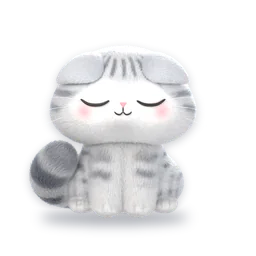
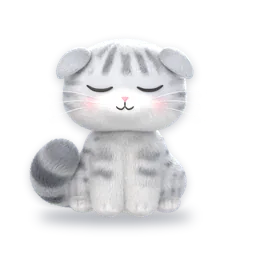
fix(помощник): голова котика круглая, как на наброске
Владелец: голова читалась прямоугольной. Причины, найденные сверкой с листом
при одинаковой ширине головы:
- «виски» заполняли верхние углы, уши лежали широким козырьком вровень с макушкой;
- серая «шапка» с горизонтальным краем над белыми вертикальными боками;
- голова сидела прямо на туловище: фигура 1.15–1.22 ширины головы против 1.27–1.36.

Теперь: череп без висков, бока серые дугой до уровня рта, белая только мордочка;
голова на 8% меньше и поднята — под подбородком видна грудка; ушки — клапаны
в верхних углах в тон головы, на одном месте при любом наклоне головы; глаза
мельче с толстой обводкой, нос и рот ниже. Лапка в «сонной» снова у рта.

diff --git a/src/components/assistant/cat/catLayout.js b/src/components/assistant/cat/catLayout.js
@@ -3,18 +3,18 @@
  * head — центр головы, top — макушка, forehead — лоб, left/right — бока головы,
  * mouth — рот, box — рамка силуэта [слева, сверху, справа, снизу]. */
 export const CAT_LAYOUT = {
-    normal: { box: [10.9, 17.6, 80.9, 85.5], forehead: [55.8, 28.1], head: [48.1, 37.3], left: [18.5, 28.7], mouth: [48.1, 43.0], right: [77.6, 28.7], top: [48.1, 18.3] },
-    'look-left': { box: [10.9, 17.6, 77.7, 85.5], forehead: [52.6, 28.2], head: [48.1, 37.3], left: [19.9, 28.0], mouth: [43.7, 42.9], right: [77.3, 29.4], top: [48.1, 18.3] },
-    'look-right': { box: [10.9, 17.6, 82.4, 85.5], forehead: [58.5, 27.9], head: [48.1, 37.3], left: [18.9, 29.4], mouth: [52.4, 42.9], right: [76.3, 28.0], top: [48.1, 18.3] },
-    blink: { box: [10.9, 17.6, 80.9, 85.5], forehead: [55.8, 28.1], head: [48.1, 37.3], left: [18.5, 28.7], mouth: [48.1, 43.0], right: [77.6, 28.7], top: [48.1, 18.3] },
-    happy: { box: [10.9, 16.8, 80.9, 85.5], forehead: [56.8, 26.2], head: [48.1, 36.7], left: [19.4, 25.5], mouth: [48.0, 39.6], right: [78.1, 30.7], top: [49.7, 17.8] },
-    excited: { box: [10.5, 18.8, 80.5, 84.8], forehead: [55.7, 27.2], head: [48.1, 38.1], left: [18.8, 29.5], mouth: [48.1, 41.3], right: [77.3, 29.5], top: [48.1, 19.2] },
-    sad: { box: [10.9, 19.9, 80.9, 85.5], forehead: [55.9, 35.0], head: [48.1, 39.4], left: [18.2, 31.5], mouth: [48.1, 50.3], right: [77.9, 31.5], top: [48.1, 21.8] },
-    angry: { box: [17.2, 17.2, 95.3, 85.2], forehead: [72.6, 36.4], head: [60.8, 43.5], left: [32.3, 36.0], mouth: [66.1, 52.0], right: [89.2, 34.2], top: [61.9, 24.8] },
-    surprised: { box: [10.9, 17.6, 80.9, 85.5], forehead: [55.8, 26.7], head: [48.1, 37.3], left: [18.5, 28.6], mouth: [48.1, 41.1], right: [77.6, 28.6], top: [48.1, 18.2] },
-    scared: { box: [9.8, 38.3, 80.9, 85.9], forehead: [55.8, 50.9], head: [48.1, 57.9], left: [18.3, 49.5], mouth: [48.1, 66.3], right: [77.8, 49.5], top: [48.1, 39.3] },
-    sleepy: { box: [10.9, 17.6, 80.9, 85.5], forehead: [57.1, 28.2], head: [48.1, 37.3], left: [19.8, 25.1], mouth: [47.8, 41.7], right: [78.4, 32.3], top: [50.4, 18.4] },
-    confused: { box: [10.9, 16.8, 82.8, 85.5], forehead: [54.3, 25.3], head: [48.1, 37.3], left: [17.3, 35.3], mouth: [50.3, 41.1], right: [74.8, 22.5], top: [43.9, 18.7] },
-    mischievous: { box: [16.8, 17.2, 94.9, 82.4], forehead: [74.1, 35.6], head: [60.8, 43.5], left: [34.1, 31.8], mouth: [66.9, 49.9], right: [88.7, 37.8], top: [63.7, 24.5] },
-    asleep: { box: [4.7, 43.0, 93.8, 89.5], forehead: [72.5, 58.4], head: [60.1, 62.8], left: [33.0, 51.8], mouth: [63.7, 72.8], right: [89.5, 57.7], top: [63.8, 45.0] },
+    normal: { box: [11.3, 14.8, 80.9, 85.2], forehead: [56.7, 24.0], head: [48.8, 33.4], left: [22.7, 24.6], mouth: [48.8, 39.1], right: [74.9, 24.6], top: [48.8, 14.1] },
+    'look-left': { box: [11.3, 14.8, 77.7, 85.2], forehead: [53.4, 24.1], head: [48.8, 33.4], left: [23.8, 24.1], mouth: [44.4, 39.0], right: [74.5, 25.2], top: [48.8, 14.1] },
+    'look-right': { box: [11.3, 14.8, 82.4, 85.2], forehead: [59.4, 23.8], head: [48.8, 33.4], left: [23.1, 25.2], mouth: [53.2, 39.0], right: [73.7, 24.1], top: [48.8, 14.1] },
+    blink: { box: [11.3, 14.8, 80.9, 85.2], forehead: [56.7, 24.0], head: [48.8, 33.4], left: [22.7, 24.6], mouth: [48.8, 39.1], right: [74.9, 24.6], top: [48.8, 14.1] },
+    happy: { box: [11.3, 14.1, 80.9, 85.2], forehead: [57.7, 22.1], head: [48.8, 32.8], left: [23.6, 21.8], mouth: [48.7, 35.6], right: [75.5, 26.3], top: [50.5, 13.6] },
+    excited: { box: [10.5, 16.0, 80.5, 84.4], forehead: [56.6, 23.1], head: [48.8, 34.2], left: [23.0, 25.5], mouth: [48.8, 37.4], right: [74.6, 25.5], top: [48.8, 15.1] },
+    sad: { box: [11.3, 16.8, 80.9, 85.2], forehead: [56.7, 30.9], head: [48.8, 35.6], left: [22.4, 27.5], mouth: [48.8, 46.5], right: [75.1, 27.5], top: [48.8, 17.6] },
+    angry: { box: [17.2, 16.0, 95.3, 84.8], forehead: [73.7, 32.4], head: [61.8, 39.7], left: [36.7, 31.9], mouth: [67.1, 48.2], right: [86.9, 30.4], top: [62.8, 20.7] },
+    surprised: { box: [11.3, 14.8, 80.9, 85.2], forehead: [56.6, 22.6], head: [48.8, 33.4], left: [22.7, 24.6], mouth: [48.8, 37.2], right: [74.9, 24.6], top: [48.8, 14.1] },
+    scared: { box: [10.2, 40.2, 80.9, 85.5], forehead: [56.7, 51.7], head: [48.8, 58.8], left: [22.6, 50.3], mouth: [48.8, 67.3], right: [75.0, 50.3], top: [48.8, 39.9] },
+    sleepy: { box: [10.9, 14.8, 80.5, 85.2], forehead: [58.0, 24.1], head: [48.8, 33.4], left: [23.9, 21.5], mouth: [48.5, 37.8], right: [75.7, 27.9], top: [51.1, 14.2] },
+    confused: { box: [11.3, 14.5, 82.8, 85.2], forehead: [55.1, 21.2], head: [48.8, 33.4], left: [21.4, 30.5], mouth: [51.1, 37.1], right: [72.1, 19.2], top: [44.6, 14.5] },
+    mischievous: { box: [17.2, 16.0, 94.9, 82.0], forehead: [75.2, 31.7], head: [61.8, 39.7], left: [38.4, 28.2], mouth: [68.0, 46.1], right: [86.7, 33.6], top: [64.7, 20.4] },
+    asleep: { box: [4.7, 45.3, 93.4, 89.1], forehead: [73.6, 59.3], head: [61.0, 63.7], left: [37.4, 53.0], mouth: [64.6, 74.0], right: [87.2, 58.1], top: [64.8, 45.7] },
 };

diff --git a/scripts/assistant_cat/cat_models.py b/scripts/assistant_cat/cat_models.py
@@ -527,29 +527,38 @@ def local_coords(part, P):
 
 
 def pattern_head(part, P, Nn, t):
-    """Голова: светло-серая «шапочка» с полосами-«М» на лбу, пара полос по бокам, белая мордочка, румянец."""
+    """Голова: серебристая с полосами табби, белые только мордочка, щёчки под глазами и подбородок.
+
+    Как на наброске: серый охватывает макушку и бока дугой до уровня рта, белая
+    «маска» снизу посередине — так голова читается шаром, а не шапкой над белым
+    прямоугольником. Полосы: «М» на лбу до бровей, по две на висках от уголков глаз."""
     L = local_coords(part, P)
     radii = np.array(part.params['radii'])
     d = normalize_rows(L / radii)
     theta = np.arctan2(d[:, 0], -d[:, 1])           # 0 — середина мордочки, ±π/2 — бока
     z = d[:, 2]
     n = len(P)
-    wob = fbm(P, 3.2, seed=11) * 0.06
-    edge = 0.34 - 0.8 * smoothstep(0.3, 1.3, np.abs(theta)) - 0.2 * smoothstep(1.6, 2.8, np.abs(theta)) + wob
-    cap = smoothstep(edge - 0.05, edge + 0.12, z)
-    col = mix_rows(np.tile(WHITE, (n, 1)), np.tile(GREY, (n, 1)), cap * 0.9)
+    hu = L[:, 0] / radii[0]                         # доли полуширины и полувысоты головы
+    hv = L[:, 2] / radii[2]
+    wob = fbm(P, 3.2, seed=11) * 0.05
+    # Белая маска: верх — дуга от переносицы вниз к бокам, у висков белого нет.
+    edge = 0.02 - 0.9 * hu * hu + wob
+    white = smoothstep(edge + 0.1, edge - 0.14, hv) * smoothstep(-0.1, 0.35, -d[:, 1])
+    white = np.maximum(white, smoothstep(-0.58, -0.86, hv))          # подбородок и низ — как грудка
+    cap = 1.0 - white
+    col = mix_rows(np.tile(WHITE, (n, 1)), np.tile(GREY, (n, 1)), cap * 0.92)
     warp = fbm(P, 3.0, seed=3) * 0.28
-    # «М» на лбу: пять полос вдоль меридианов, к бровям тоньше и обрываются.
-    taper = smoothstep(edge + 0.02, edge + 0.4, z)
-    # Полосы на лбу — тоньше, чаще и волнистее, чем бруски «штрихкода» (как на наброске).
-    fore = bands(theta / 0.2 + 0.5 + warp * 1.5, width=0.3 + 0.2 * taper, soft=0.16)
-    fore *= smoothstep(edge + 0.03, edge + 0.16, z) * smoothstep(0.78, 0.5, np.abs(theta))
-    fore *= smoothstep(-0.35, 0.1, fbm(P, 5.5, seed=17) + 0.25 - 0.3 * smoothstep(0.75, 0.95, z))
-    # По бокам головы — две поперечные полосы, рваные.
-    side = bands(z / 0.24 + 0.2 + warp * 1.2, width=0.46, soft=0.16)
-    side *= smoothstep(0.62, 0.95, np.abs(theta)) * smoothstep(2.5, 1.9, np.abs(theta)) * cap
+    # «М» на лбу: полосы вдоль меридианов от макушки до бровей, к бровям тоньше.
+    taper = smoothstep(0.3, 0.75, hv)
+    fore = bands(theta / 0.34 + 0.5 + warp * 1.4, width=0.4 + 0.2 * taper, soft=0.22)
+    fore *= smoothstep(0.26, 0.42, hv) * smoothstep(0.85, 0.55, np.abs(theta))
+    fore *= smoothstep(-0.35, 0.1, fbm(P, 5.5, seed=17) + 0.25 - 0.3 * smoothstep(0.8, 0.97, z))
+    # На висках — по две поперечные полосы от уголков глаз назад, рваные.
+    side = bands(hv / 0.26 + 0.1 + warp * 1.2, width=0.44, soft=0.16)
+    side *= smoothstep(0.7, 1.0, np.abs(theta)) * smoothstep(2.5, 1.9, np.abs(theta))
+    side *= smoothstep(-0.62, -0.4, hv) * smoothstep(0.62, 0.4, hv)
     side *= smoothstep(-0.3, 0.2, fbm(P, 4.5, seed=13) + 0.2)
-    back = bands(theta / 0.32 + warp, width=0.3, soft=0.18) * smoothstep(2.1, 2.6, np.abs(theta)) * cap
+    back = bands(theta / 0.32 + warp, width=0.3, soft=0.18) * smoothstep(1.9, 2.5, np.abs(theta))
     stripes = np.clip(np.maximum(np.maximum(fore, side), back), 0, 1) * (0.8 + 0.2 * fbm(P, 7.0, seed=5))
     col = mix_rows(col, np.tile(STRIPE_HEAD, (n, 1)), np.clip(stripes * 1.15, 0, 1) * cap)
     # Румянец на щёчках под глазами.
@@ -966,7 +975,7 @@ def build_eye(face, prefix, spec, mats):
     radii = []
     for (x, y) in outline:
         radii.append(0.14 + 1.9 * smooth01((y + 0.05) / 0.75))   # веко сверху, снизу — волосок
-    tube(f'{prefix}Line', ring_pts, spec.get('line', 0.012), mats['line'], radii, cyclic=True)
+    tube(f'{prefix}Line', ring_pts, spec.get('line', 0.016), mats['line'], radii, cyclic=True)
     # Блики — на роговице над радужкой: едут вместе со взглядом.
     for k, (hx, hy, hr) in enumerate(spec.get('sparks', [(0.2, 0.22, 0.17), (-0.22, -0.24, 0.075)])):
         disc(face, f'{prefix}Spark{k}', cu, cv, rx, ry, inner, hx + look[0], hy + look[1], hr, bulge,
@@ -1088,19 +1097,19 @@ def rounded_triangle(cx, cy, w, h, r=0.35, n=12):
 # ---------------------------------------------------------------- уши
 
 def build_ear(name, head, side, droop, mats, face):
-    """Вислое ушко: гладкий треугольный клапан на верхнем углу головы, кончик вперёд-вниз-наружу.
+    """Вислое ушко: пухлый скруглённый клапан на верхнем углу головы, кончик наружу-вниз.
 
-    Место — лучом из центра головы до её настоящей поверхности (виски и щёчки
-    меняют форму, эллипсоид врал бы)."""
+    Место — лучом из центра головы до её настоящей поверхности; ось клапана задана
+    как на рисунке спереди, а не по касательной к голове (иначе ухо ложилось «полкой»)."""
     bm = bmesh.new()
     bmesh.ops.create_uvsphere(bm, u_segments=40, v_segments=20, radius=1.0)
-    hp = head.params
     ear = HEAD_SHAPE['ear']
-    w_half, h_half, thick = hp.get('ear_size', ear['size'])
-    flare = math.radians(ear.get('flare', -16))       # клапан откинут на сгибе: низ отходит от головы
+    w_half, h_half, thick = ear['size']
+    flare = math.radians(ear['flare'])               # клапан откинут на сгибе: низ отходит от головы
+    tip = ear['tip']                                 # ширина кончика в долях сгиба: 0.6 — скруглённый
     for v in bm.verts:
         x, y, z = v.co
-        w = 0.32 + 0.68 * (z + 1) / 2                    # широкий сгиб сверху, острый кончик внизу
+        w = tip + (1.0 - tip) * (z + 1) / 2              # широкий сгиб сверху, кончик внизу
         v.co = Vector((x * w_half * w, y * thick, z * h_half))
         v.co.y += 1.0 * (v.co.x ** 2) + 0.7 * (v.co.z ** 2)   # края загнуты к голове (+y)
         dz = v.co.z - h_half
@@ -1112,8 +1121,12 @@ def build_ear(name, head, side, droop, mats, face):
     mesh.shade_smooth()
     obj = bpy.data.objects.new(name, mesh)
     bpy.context.scene.collection.objects.link(obj)
-    az = math.radians(hp.get('ear_az', ear['az'])) * side
-    el = math.radians(hp.get('ear_el', ear['el']) - droop * 12)
+    hp = head.params
+    az = math.radians(ear['az']) * side
+    droop_el, droop_axis = ear['droop']
+    # На набросках ушки на одном месте при любом наклоне головы: кивок вниз иначе
+    # опускал бы их к вискам, а запрокинутая голова поднимала крылышками на макушку.
+    el = math.radians(ear['el'] + ear['follow'] * hp['pitch'] - droop * droop_el)
     d_local = Vector((math.sin(az) * math.cos(el), -math.cos(az) * math.cos(el), math.sin(el)))
     R = head.frame.to_3x3()
     centre = head.frame.translation
@@ -1125,21 +1138,25 @@ def build_ear(name, head, side, droop, mats, face):
         normal = direction
     if normal.dot(direction) < 0:
         normal = -normal
-    up = R @ Vector((0, 0, 1))
-    z_axis = (up - normal * up.dot(normal)).normalized()
+    # Клапан чуть развёрнут к зрителю: спереди виден во всю ширину.
+    normal = (normal + R @ Vector((0, -1, 0)) * ear['front']).normalized()
+    # Ось — от корня у макушки к кончику наружу-вниз под углом axis° к горизонтали,
+    # как на рисунке спереди; грусть и испуг опускают кончик ниже.
+    a = math.radians(ear['axis'] + droop * droop_axis)
+    root = R @ Vector((-side * math.cos(a), 0.0, math.sin(a)))
     y_axis = -normal
+    z_axis = (root - normal * root.dot(normal)).normalized()
     x_axis = y_axis.cross(z_axis).normalized()
     basis = Matrix((x_axis, y_axis, z_axis)).transposed()
-    tilt = Matrix.Rotation(math.radians((hp.get('ear_tilt', ear['tilt']) + droop * 16) * side), 3, normal)
-    obj.matrix_world = Matrix.Translation(loc + normal * hp.get('ear_lift', ear['lift'])) @ (tilt @ basis).to_4x4()
-    # Окрас — гладкий серый в тон «шапочки», без полос; у сгиба чуть темнее.
+    obj.matrix_world = Matrix.Translation(loc + normal * ear['lift']) @ basis.to_4x4()
+    # Окрас — серый в тон головы, без полос (светлый клапан выглядел «наушниками»); у сгиба темнее.
     P, Nn = mesh_arrays(obj)
     n = len(P)
     co = np.empty(n * 3)
     mesh.vertices.foreach_get('co', co)
     co = co.reshape(-1, 3)
-    col = np.tile(lin(ear.get('color', '#c3c6cc')), (n, 1))
-    col = mix_rows(col, np.tile(lin('#a9acb3'), (n, 1)), smoothstep(h_half * 0.2, h_half, co[:, 2]) * 0.55)
+    col = np.tile(lin(ear['color']), (n, 1))
+    col = mix_rows(col, np.tile(lin(ear['fold']), (n, 1)), smoothstep(h_half * 0.2, h_half, co[:, 2]) * 0.55)
     attr = mesh.color_attributes.new('col', 'FLOAT_COLOR', 'POINT')
     attr.data.foreach_set('color', np.concatenate([col, np.ones((n, 1))], axis=1).astype(np.float32).ravel())
     mesh.materials.append(mats['skin'])
@@ -1149,45 +1166,52 @@ def build_ear(name, head, side, droop, mats, face):
 
 # ---------------------------------------------------------------- позы
 
-# Форма головы подогнана к наброскам «1 в 1» (просьба владельца 02.11.2026): силуэт
-# головы с листа (Surprised, Excited, Sad) и голова рендера (CAT_HEAD_ONLY=1) сведены
-# к одной высоте, сравнивалась полуширина по высоте и место/размер глаз. Итог: голова
-# шире высоты в ~1.45 раза, скруглённый купол, щёки широкие книзу, ушки — клапаны на
-# верхних углах кончиком вниз-наружу; разлёт глаз ~0.37 ширины головы, радужка ~0.2,
-# белок — тонкий серпик (на наброске глаз почти целиком радужка).
+# Голова по наброскам (владелец 02–03.11.2026: «1 в 1», «круглая, а не прямоугольная»).
+# Сверялись голова (CAT_HEAD_ONLY=1) и вся фигура при одинаковой ширине головы. Голова —
+# шар шире высоты (~1.45 вместе с ушками) без «висков»: те делали верхние углы коробкой;
+# бока серые дугой до уровня рта, белая только мордочка снизу. Голова на 8% меньше
+# прежней и поднята на шею: под подбородком видна грудка, фигура ~1.3 ширины головы,
+# как на листе. Ушки — пухлые клапаны в верхних углах, купол над ними. Глаза мельче
+# (разлёт ~0.37, радужка ~0.16 ширины головы), нос и рот ниже — мордочка длиннее.
 # CAT_HEAD='{"radii": [...]}' переопределяет значения для такой подгонки без правки файла.
 HEAD_SHAPE = dict(
-    radii=(0.81, 0.6, 0.65),
-    temple=((0.3, 0.03, 0.04), (0.4, 0.44, 0.33), 1.45),
-    cheek=((0.42, -0.15, -0.2), (0.46, 0.34, 0.34), 1.9),
-    ear=dict(az=61, el=30, size=(0.39, 0.34, 0.075), tilt=46, lift=0.03, flare=-8),
-    eye=(0.36, -0.02, 0.212, 0.225),
-    iris=0.94,
+    radii=(0.79, 0.607, 0.598),
+    cheek=((0.368, -0.202, -0.221), (0.331, 0.276, 0.276), 1.0),
+    muzzle=((0.0, -0.442, -0.184), (0.239, 0.156, 0.156), 1.3),
+    half=0.828,                 # полуширина черепа со щёчками: румянец, усы, опоры значков
+    neck=0.1,                   # сидя и стоя голова выше прежней на столько
+    nose=-0.11,
+    eye=(0.317, 0.028, 0.19, 0.18),
+    iris=0.82,
+    ear=dict(az=68, el=23, follow=0.45, axis=54, front=0.1, size=(0.22, 0.26, 0.1), lift=0.075,
+             flare=-12, tip=0.6, droop=(4, 6), color='#b3b6bd', fold='#979aa1'),
 )
 if os.environ.get('CAT_HEAD'):
     HEAD_SHAPE.update(json.loads(os.environ['CAT_HEAD']))
 HEAD_RADII = tuple(HEAD_SHAPE['radii'])
 IRIS = HEAD_SHAPE.get('iris', IRIS)
-HEAD_WIDEN = HEAD_RADII[0] / 0.68          # во сколько голова шире первой версии — румянец, усы
+# Во сколько голова шире первой версии (полуширина черепа 0.8) — румянец, усы, опоры значков.
+HEAD_WIDEN = HEAD_SHAPE['half'] / 0.8
 
 
-def head_part(center, rot, face_params, droop=0.0):
-    frame = frame_matrix(center, rot)
-    head = Part('head', 'head', frame, radii=HEAD_RADII, face=face_params, droop=droop)
+def head_part(center, rot, face_params, droop=0.0, resting=False):
+    # Сидя и стоя голова поднята на шею (neck) — под подбородком видна грудка, как на
+    # наброске; лежащая на лапках опущена так, чтобы низ остался на месте.
+    lift = HEAD_RADII[2] - 0.65 if resting else HEAD_SHAPE['neck']
+    frame = frame_matrix(Vector(center) + Vector((0.0, 0.0, lift)), rot)
+    head = Part('head', 'head', frame, radii=HEAD_RADII, face=face_params, droop=droop, pitch=rot[0])
     # Голова — широкий эллипсоид, щёчки и мордочка — элементы в её системе координат.
     head.local((0, 0, 0), HEAD_RADII)
-    (tx, ty, tz), t_radii, t_stiff = HEAD_SHAPE['temple']
     (cx, cy, cz), c_radii, c_stiff = HEAD_SHAPE['cheek']
     for s in (-1, 1):
-        # Виски — широкий плоский верх, а не «колокол» с узкой макушкой; щёчки — пухлый низ.
-        head.local((tx * s, ty, tz), t_radii, stiffness=t_stiff)
         head.local((cx * s, cy, cz), c_radii, stiffness=c_stiff)
-    head.local((0, -0.42, -0.16), (0.26, 0.17, 0.17), stiffness=1.3)
+    (mx, my, mz), m_radii, m_stiff = HEAD_SHAPE['muzzle']
+    head.local((mx, my, mz), m_radii, stiffness=m_stiff)
     return head
 
 
 def default_face():
-    return dict(blush=(0.43 * HEAD_WIDEN, -0.15, 0.13))
+    return dict(blush=(0.43 * HEAD_WIDEN, NOSE_Y - 0.1, 0.13))
 
 
 def add_leg(parts, s, path, radii, outward, sock=0.72, stripes=3.2):
@@ -1332,7 +1356,7 @@ def pose_stand(yaw=55.0, head_rot=(8, 0, 18), tail=None, paw_lift=False, droop=0
 def pose_crouch(face=None):
     """Scared: припал к полу, лапки вперёд, голова низко, ушки прижаты."""
     parts = []
-    head = head_part((0.0, -0.26, 0.86), (6, 0, 0), face or default_face(), droop=1.0)
+    head = head_part((0.0, -0.26, 0.86), (6, 0, 0), face or default_face(), droop=1.0, resting=True)
     parts.append(head)
     torso = Part('torso', 'torso', frame_matrix((0, 0.36, 0.36), (90, 0, 0)), radii=(0.58, 0.36, 0.62))
     torso.local((0, 0, 0), (0.58, 0.36, 0.62))
@@ -1353,7 +1377,7 @@ def pose_crouch(face=None):
 def pose_curl(face=None):
     """Спит клубочком (второй набросок): голова на лапках, хвост обнимает спереди."""
     parts = []
-    head = head_part((0.42, -0.22, 0.68), (12, 8, 14), face or default_face(), droop=0.35)
+    head = head_part((0.42, -0.22, 0.68), (12, 8, 14), face or default_face(), droop=0.35, resting=True)
     parts.append(head)
     torso = Part('torso', 'torso', frame_matrix((-0.32, 0.24, 0.42), (90, 0, 90)), radii=(0.56, 0.42, 0.78))
     torso.local((0, 0, 0), (0.56, 0.42, 0.72))
@@ -1376,7 +1400,7 @@ def pose_curl(face=None):
 # ---------------------------------------------------------------- мордочки
 
 EYE_CX, EYE_CY, EYE_RX, EYE_RY = HEAD_SHAPE['eye']
-NOSE_Y = -0.052
+NOSE_Y = HEAD_SHAPE['nose']
 MOUTH_Y = NOSE_Y - 0.033            # от низа носа
 
 # Закрытые глаза — линии в нормированных координатах глаза (x — к носу).
@@ -1579,8 +1603,8 @@ def build_face(face, mats, spec):
 
 def whiskers(face, mats):
     for side in (-1, 1):
-        for k, (v, tip_z, back) in enumerate(((-0.08, 0.12, 0.12), (-0.115, 0.0, 0.16), (-0.15, -0.13, 0.2))):
-            root = face.point(0.27 * HEAD_WIDEN * side, v, 0.0)
+        for k, (dv, tip_z, back) in enumerate(((-0.028, 0.12, 0.12), (-0.063, 0.0, 0.16), (-0.098, -0.13, 0.2))):
+            root = face.point(0.27 * HEAD_WIDEN * side, NOSE_Y + dv, 0.0)
             R = face.R
             pts = [root,
                    root + R @ Vector((0.26 * side, back * 0.4, tip_z * 0.45 + 0.03)),
@@ -1641,8 +1665,8 @@ EMOTIONS = {
     'scared': (lambda f: pose_crouch(face=f),
                dict(eyes=dict(look=(0.0, 0.24), scale=1.06, lids=lid(LID_WORRY)), mouth='wavy')),
     'sleepy': (lambda f: pose_sit(head_rot=(-4, 7, 0), face=f, paw_up=dict(
-                   side=1, path=[(0.22, -0.3, 0.78), (0.34, -0.64, 0.7), (0.24, -0.76, 0.96)],
-                   paw=(0.22, -0.82, 1.0), paw_rot=(-90, 0, 180))),
+                   side=1, path=[(0.22, -0.3, 0.78), (0.34, -0.67, 0.84), (0.21, -0.81, 1.17)],
+                   paw=(0.185, -0.87, 1.235), paw_rot=(-90, 0, 180))),
                dict(eyes='sleepy', mouth='yawn')),
     'confused': (lambda f: pose_sit(head_rot=(-6, -12, 6), face=f),
                  dict(eyes=dict(look=(0.24, 0.22)), mouth='o_small')),
